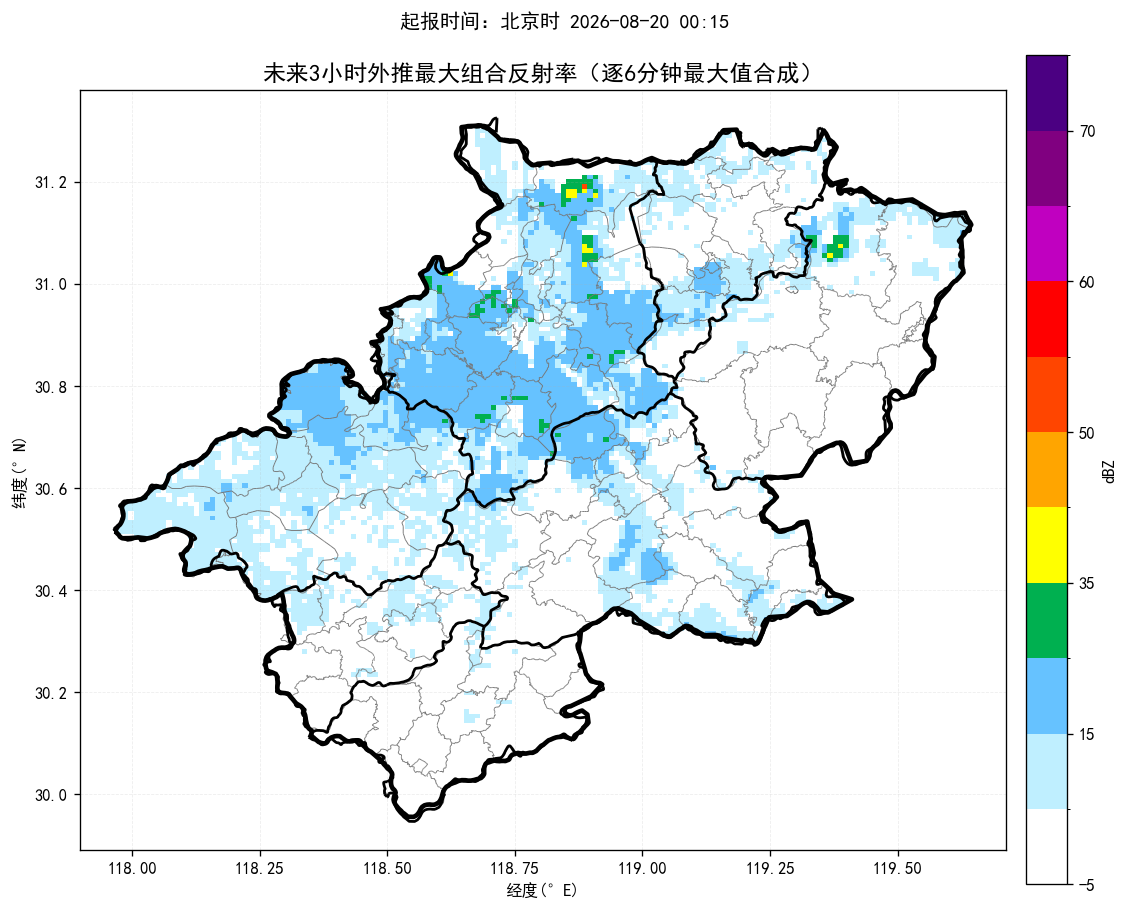
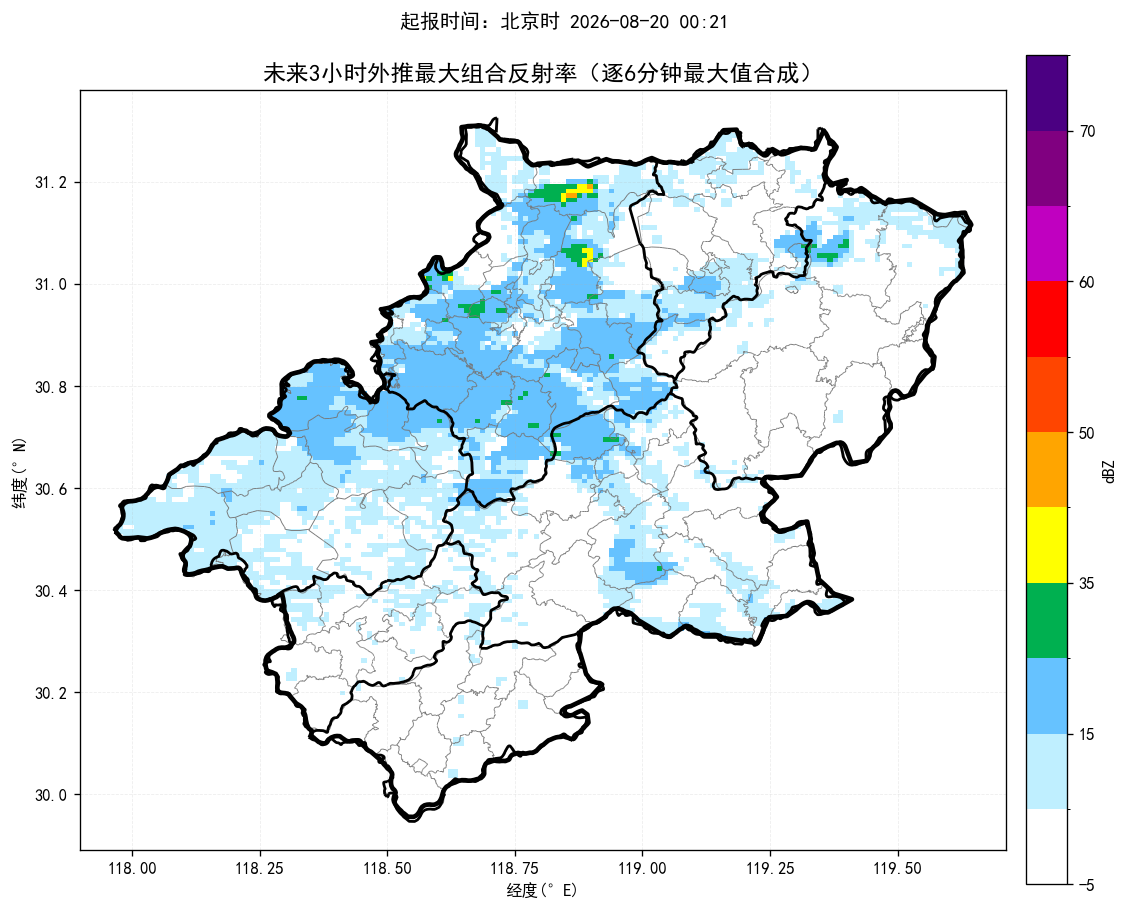
update nowcast products

diff --git a/index.html b/index.html
@@ -14,14 +14,14 @@ img.product{display:block;width:100%;height:auto;margin:10px auto 26px;border:1p
 .footer{font-size:13px;color:#777;text-align:center;margin-top:30px}
 @media(max-width:700px){.sheet{margin:0;padding:18px 15px}.alert-title{font-size:22px}.county-line{font-size:17px}.prob{font-size:18px}}
 </style></head><body><main class="sheet">
-<div class="time">起报时间：北京时 2026-08-20 00:15</div>
-<div class="alert-title">未来一小时降水量超过 20 毫米的乡镇：</div><div class="county-line">宣州区：狸桥镇</div>
+<div class="time">起报时间：北京时 2026-08-20 00:21</div>
+<div class="alert-title">未来一小时降水量超过 20 毫米的乡镇：</div><div class="county-line">无</div>
 <div class="alert-title">未来三小时降水量超过 50 毫米的乡镇：</div><div class="county-line">无</div>
 <div class="alert-title">未来三小时雷暴大风（组合反射率 > 55 dBZ）的乡镇：</div><div class="county-line">无</div>
-<div class="prob">最大降水量概率预估：宣城市范围内未来三小时累计降水达到50毫米概率约3%，达到80毫米概率约0%，达到100毫米概率约0%。</div>
-<div class="section-title">未来降水预报图：</div><img class="product auto-refresh-product" data-src="短临降水预报.png" src="短临降水预报.png?v=20260820002129" alt="未来降水预报图">
-<div class="section-title">未来三小时组合反射率图：</div><img class="product auto-refresh-product" data-src="未来3小时组合反射率.png" src="未来3小时组合反射率.png?v=20260820002129" alt="未来三小时组合反射率图">
-<div class="section-title">未来三小时雷暴大风图：</div><img class="product auto-refresh-product" data-src="未来3小时雷暴大风.png" src="未来3小时雷暴大风.png?v=20260820002129" alt="未来三小时雷暴大风图">
+<div class="prob">最大降水量概率预估：宣城市范围内未来三小时降水偏小，最大预报约19.3毫米，暂不进行50/80/100毫米概率预估。</div>
+<div class="section-title">未来降水预报图：</div><img class="product auto-refresh-product" data-src="短临降水预报.png" src="短临降水预报.png?v=20260820002659" alt="未来降水预报图">
+<div class="section-title">未来三小时组合反射率图：</div><img class="product auto-refresh-product" data-src="未来3小时组合反射率.png" src="未来3小时组合反射率.png?v=20260820002659" alt="未来三小时组合反射率图">
+<div class="section-title">未来三小时雷暴大风图：</div><img class="product auto-refresh-product" data-src="未来3小时雷暴大风.png" src="未来3小时雷暴大风.png?v=20260820002659" alt="未来三小时雷暴大风图">
 <div class="footer">三张产品图每 60 秒自动刷新一次；每次请求自动附加新的URL参数以绕过缓存。</div>
 <script>
 (function() {
